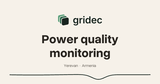
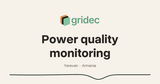
Логотип v2 владельца (gridec_vector_v2.zip): знак из трёх плоскостей медь / тёмно-зелёная / бледно-зелёная, слово «gridec» зелёным #5FA27E (2026-11-17, владелец: «поставь этот логотип»)
- brand/: gridec-logo-light(-s).svg ← logo-light, gridec-logo-dark.svg ← logo-dark (на тёмном у средней плоскости тонкий светлый контур — так в файле владельца), gridec-mark-light/dark.svg ← symbol-light/dark. Новые файлы для почтовой подписи: gridec-logo-email-light/dark.png (684 px); прежние PNG подписи не тронуты — у них другие пропорции, на них ссылаются черновики подписи.
- Шапка 37 px и подвал 44 px — прежней высоты: ширина знака вышла та же (125 против 122 px). Рамка новых SVG без полей, поэтому сдвиг влево -8→-6 и -10→-7, край знака на прежнем месте. width/height у <img> 684×204.
- favicon.svg: светлый знак на бумажной плитке (rx 12), фавиконки пересобраны icons_mark.py.
- og: logo-mark.png отрисован из нового SVG (300 px на бумаге), карточки пересобраны make_cards.py.
Проверено: шапка светлая/тёмная, подвал, телефон 320–530 (HY зазор знак→«Բաժիններ» 9 px на 375, 24 на 390; переполнения нет).

Changed region(s): [[0.3438, 0.1667, 0.6562, 0.3095]]

diff --git a/powertech-v2-build/shell.html b/powertech-v2-build/shell.html
@@ -205,7 +205,7 @@ header a,header button,header nav,header .navr{pointer-events:auto;}
    плоскостями шире (3.4 вместо 1.5) и задняя плоскость на шаг темнее, иначе при
    32px зазоры пропадают и знак сливается в пятно. На тёмном — dark-версия.
    Сдвиг −7px: оптическое выравнивание по средней плоскости (задняя висит в поле). */
-.brand .wm{display:block;flex:0 0 auto;height:37px;width:auto;margin:0 0 0 -8px;}   /* 32 → 37: владелец «на 15 %» (2026-09-13); сдвиг оптики −7 → −8 пропорционально */
+.brand .wm{display:block;flex:0 0 auto;height:37px;width:auto;margin:0 0 0 -6px;}/* 2026-11-17 логотип v2 владельца: рамка без полей, край знака там же, где был */   /* 32 → 37: владелец «на 15 %» (2026-09-13); сдвиг оптики −7 → −8 пропорционально */
 .brand .lg-d{display:none;}
 header.on-dark .brand .lg-l{display:none;}
 header.on-dark .brand .lg-d{display:block;}
@@ -1580,7 +1580,7 @@ footer .fgrid{display:grid;grid-template-columns:minmax(220px,1fr) minmax(0,1.15
 /* Владелец (2026-09-14): знак и имя юрлица под ним спорили — два имени одного
    веса подряд. Имя юрлица ушло в строку реквизитов к номеру: знак называет
    компанию один раз, юрлицо читают вместе с номером. */
-footer .fbrand .flg{display:block;height:44px;width:auto;margin:0 0 22px -10px;}
+footer .fbrand .flg{display:block;height:44px;width:auto;margin:0 0 22px -7px;}
 /* Учётный номер компании. Он ярче описания над ним, потому что это
    проверяемый факт, а не подпись: по этому номеру компанию находят в
    государственном реестре — ради чего он в футере и стоит. Обозначение
@@ -2360,7 +2360,7 @@ html[data-nav="5"] #hdr .btn{white-space:nowrap;}
 <div id="wipe"><canvas aria-hidden="true"></canvas></div>
 <div class="rake" aria-hidden="true"></div>
 <header id="hdr" data-tone="paper"><div class="hin">
-  <a class="brand" href="%%BRAND_HREF%%" aria-label="Gridec"><img class="wm lg-l" src="./brand/gridec-logo-light-s.svg" alt="Gridec" width="325" height="92" decoding="async"><img class="wm lg-d" src="./brand/gridec-logo-dark.svg" alt="" width="325" height="92" decoding="async" aria-hidden="true"></a>
+  <a class="brand" href="%%BRAND_HREF%%" aria-label="Gridec"><img class="wm lg-l" src="./brand/gridec-logo-light-s.svg" alt="Gridec" width="684" height="204" decoding="async"><img class="wm lg-d" src="./brand/gridec-logo-dark.svg" alt="" width="684" height="204" decoding="async" aria-hidden="true"></a>
   <!-- %%HOME%% пуст на главной и равен её адресу на остальных страницах: оттуда
        ссылки на разделы ведут на главную, а не в пустоту (2026-11-11). -->
   <nav><a class="lk" href="%%HOME%%#applications">%%NAV_INDUSTRIES%%</a><a class="lk" href="%%HOME%%#services">%%NAV_SERVICES%%</a><a class="lk" href="%%HOME%%#company">%%NAV_COMPANY%%</a><a class="lk" href="%%PARTNERS_HREF%%"%%PARTNERS_CUR%%>%%NAV_PARTNERS%%</a></nav>
@@ -2563,7 +2563,7 @@ html[data-nav="5"] #hdr .btn{white-space:nowrap;}
 <footer>
   <div class="wrap fgrid">
     <div class="fbrand rv">
-      <img class="flg" src="./brand/gridec-logo-dark.svg" alt="Gridec" width="325" height="92" loading="lazy" decoding="async">
+      <img class="flg" src="./brand/gridec-logo-dark.svg" alt="Gridec" width="684" height="204" loading="lazy" decoding="async">
       <p>%%HERO_EYEBROW%%</p>
       <p class="freg">%%CO_LEGAL%%<span class="fsep">·</span>%%CO_TIN_LB%% <b>%%CO_TIN%%</b></p>
     </div>

diff --git a/site/hy/partners/index.html b/site/hy/partners/index.html
@@ -106,7 +106,7 @@ header a,header button,header nav,header .navr{pointer-events:auto;}
   width:100%;padding:0 clamp(14px,2.1vw,30px);}
 .brand{display:flex;align-items:center;gap:10px;
   --acc:var(--c-brand);flex:0 0 auto;transition:color .5s var(--e);}
-.brand .wm{display:block;flex:0 0 auto;height:37px;width:auto;margin:0 0 0 -8px;}   
+.brand .wm{display:block;flex:0 0 auto;height:37px;width:auto;margin:0 0 0 -6px;}   
 .brand .lg-d{display:none;}
 header.on-dark .brand .lg-l{display:none;}
 header.on-dark .brand .lg-d{display:block;}
@@ -812,7 +812,7 @@ footer,.footrev{--foot-h:530px;}
   box-shadow:inset 0 1px 0 var(--line-d);}
 footer .fgrid{display:grid;grid-template-columns:minmax(220px,1fr) minmax(0,1.15fr) minmax(0,.85fr);
   gap:clamp(28px,4vw,var(--s8));align-items:start;}
-footer .fbrand .flg{display:block;height:44px;width:auto;margin:0 0 22px -10px;}
+footer .fbrand .flg{display:block;height:44px;width:auto;margin:0 0 22px -7px;}
 footer .fbrand .freg{margin-top:14px;text-transform:none;letter-spacing:.04em;white-space:nowrap;
   max-width:none;color:var(--c-paper-a72);}
 footer .fbrand .freg .fsep{opacity:.5;margin:0 10px;}
@@ -1292,7 +1292,7 @@ html[data-nav="5"] #hdr .btn{white-space:nowrap;}
 <div id="wipe"><canvas aria-hidden="true"></canvas></div>
 <div class="rake" aria-hidden="true"></div>
 <header id="hdr" data-tone="paper"><div class="hin">
-  <a class="brand" href="/hy/" aria-label="Gridec"><img class="wm lg-l" src="/brand/gridec-logo-light-s.svg" alt="Gridec" width="325" height="92" decoding="async"><img class="wm lg-d" src="/brand/gridec-logo-dark.svg" alt="" width="325" height="92" decoding="async" aria-hidden="true"></a>
+  <a class="brand" href="/hy/" aria-label="Gridec"><img class="wm lg-l" src="/brand/gridec-logo-light-s.svg" alt="Gridec" width="684" height="204" decoding="async"><img class="wm lg-d" src="/brand/gridec-logo-dark.svg" alt="" width="684" height="204" decoding="async" aria-hidden="true"></a>
   
   <nav><a class="lk" href="/hy/#applications">Ոլորտներ</a><a class="lk" href="/hy/#services">Ծառայություններ</a><a class="lk" href="/hy/#company">Ընկերություն</a><a class="lk" href="/hy/partners/" aria-current="page">Գործընկերների համար</a></nav>
   <div class="navr">
@@ -1360,7 +1360,7 @@ html[data-nav="5"] #hdr .btn{white-space:nowrap;}
 <footer>
   <div class="wrap fgrid">
     <div class="fbrand rv">
-      <img class="flg" src="/brand/gridec-logo-dark.svg" alt="Gridec" width="325" height="92" loading="lazy" decoding="async">
+      <img class="flg" src="/brand/gridec-logo-dark.svg" alt="Gridec" width="684" height="204" loading="lazy" decoding="async">
       <p>Էլեկտրաէներգիայի որակի մոնիթորինգ</p>
       <p class="freg">Գրիդեկ ՍՊԸ<span class="fsep">·</span>ՀՎՀՀ <b>08331059</b></p>
     </div>

diff --git a/site/hy/index.html b/site/hy/index.html
@@ -106,7 +106,7 @@ header a,header button,header nav,header .navr{pointer-events:auto;}
   width:100%;padding:0 clamp(14px,2.1vw,30px);}
 .brand{display:flex;align-items:center;gap:10px;
   --acc:var(--c-brand);flex:0 0 auto;transition:color .5s var(--e);}
-.brand .wm{display:block;flex:0 0 auto;height:37px;width:auto;margin:0 0 0 -8px;}   
+.brand .wm{display:block;flex:0 0 auto;height:37px;width:auto;margin:0 0 0 -6px;}   
 .brand .lg-d{display:none;}
 header.on-dark .brand .lg-l{display:none;}
 header.on-dark .brand .lg-d{display:block;}
@@ -812,7 +812,7 @@ footer,.footrev{--foot-h:530px;}
   box-shadow:inset 0 1px 0 var(--line-d);}
 footer .fgrid{display:grid;grid-template-columns:minmax(220px,1fr) minmax(0,1.15fr) minmax(0,.85fr);
   gap:clamp(28px,4vw,var(--s8));align-items:start;}
-footer .fbrand .flg{display:block;height:44px;width:auto;margin:0 0 22px -10px;}
+footer .fbrand .flg{display:block;height:44px;width:auto;margin:0 0 22px -7px;}
 footer .fbrand .freg{margin-top:14px;text-transform:none;letter-spacing:.04em;white-space:nowrap;
   max-width:none;color:var(--c-paper-a72);}
 footer .fbrand .freg .fsep{opacity:.5;margin:0 10px;}
@@ -1292,7 +1292,7 @@ html[data-nav="5"] #hdr .btn{white-space:nowrap;}
 <div id="wipe"><canvas aria-hidden="true"></canvas></div>
 <div class="rake" aria-hidden="true"></div>
 <header id="hdr" data-tone="paper"><div class="hin">
-  <a class="brand" href="#top" aria-label="Gridec"><img class="wm lg-l" src="/brand/gridec-logo-light-s.svg" alt="Gridec" width="325" height="92" decoding="async"><img class="wm lg-d" src="/brand/gridec-logo-dark.svg" alt="" width="325" height="92" decoding="async" aria-hidden="true"></a>
+  <a class="brand" href="#top" aria-label="Gridec"><img class="wm lg-l" src="/brand/gridec-logo-light-s.svg" alt="Gridec" width="684" height="204" decoding="async"><img class="wm lg-d" src="/brand/gridec-logo-dark.svg" alt="" width="684" height="204" decoding="async" aria-hidden="true"></a>
   
   <nav><a class="lk" href="#applications">Ոլորտներ</a><a class="lk" href="#services">Ծառայություններ</a><a class="lk" href="#company">Ընկերություն</a><a class="lk" href="/hy/partners/">Գործընկերների համար</a></nav>
   <div class="navr">
@@ -1455,7 +1455,7 @@ html[data-nav="5"] #hdr .btn{white-space:nowrap;}
 <footer>
   <div class="wrap fgrid">
     <div class="fbrand rv">
-      <img class="flg" src="/brand/gridec-logo-dark.svg" alt="Gridec" width="325" height="92" loading="lazy" decoding="async">
+      <img class="flg" src="/brand/gridec-logo-dark.svg" alt="Gridec" width="684" height="204" loading="lazy" decoding="async">
       <p>Էլեկտրաէներգիայի որակի մոնիթորինգ</p>
       <p class="freg">Գրիդեկ ՍՊԸ<span class="fsep">·</span>ՀՎՀՀ <b>08331059</b></p>
     </div>

diff --git a/site/partners/index.html b/site/partners/index.html
@@ -102,7 +102,7 @@ header a,header button,header nav,header .navr{pointer-events:auto;}
   width:100%;padding:0 clamp(14px,2.1vw,30px);}
 .brand{display:flex;align-items:center;gap:10px;
   --acc:var(--c-brand);flex:0 0 auto;transition:color .5s var(--e);}
-.brand .wm{display:block;flex:0 0 auto;height:37px;width:auto;margin:0 0 0 -8px;}   
+.brand .wm{display:block;flex:0 0 auto;height:37px;width:auto;margin:0 0 0 -6px;}   
 .brand .lg-d{display:none;}
 header.on-dark .brand .lg-l{display:none;}
 header.on-dark .brand .lg-d{display:block;}
@@ -808,7 +808,7 @@ footer,.footrev{--foot-h:530px;}
   box-shadow:inset 0 1px 0 var(--line-d);}
 footer .fgrid{display:grid;grid-template-columns:minmax(220px,1fr) minmax(0,1.15fr) minmax(0,.85fr);
   gap:clamp(28px,4vw,var(--s8));align-items:start;}
-footer .fbrand .flg{display:block;height:44px;width:auto;margin:0 0 22px -10px;}
+footer .fbrand .flg{display:block;height:44px;width:auto;margin:0 0 22px -7px;}
 footer .fbrand .freg{margin-top:14px;text-transform:none;letter-spacing:.04em;white-space:nowrap;
   max-width:none;color:var(--c-paper-a72);}
 footer .fbrand .freg .fsep{opacity:.5;margin:0 10px;}
@@ -1292,7 +1292,7 @@ html[data-nav="5"] #hdr .btn{white-space:nowrap;}
 <div id="wipe"><canvas aria-hidden="true"></canvas></div>
 <div class="rake" aria-hidden="true"></div>
 <header id="hdr" data-tone="paper"><div class="hin">
-  <a class="brand" href="/" aria-label="Gridec"><img class="wm lg-l" src="/brand/gridec-logo-light-s.svg" alt="Gridec" width="325" height="92" decoding="async"><img class="wm lg-d" src="/brand/gridec-logo-dark.svg" alt="" width="325" height="92" decoding="async" aria-hidden="true"></a>
+  <a class="brand" href="/" aria-label="Gridec"><img class="wm lg-l" src="/brand/gridec-logo-light-s.svg" alt="Gridec" width="684" height="204" decoding="async"><img class="wm lg-d" src="/brand/gridec-logo-dark.svg" alt="" width="684" height="204" decoding="async" aria-hidden="true"></a>
   
   <nav><a class="lk" href="/#applications">Industries</a><a class="lk" href="/#services">Services</a><a class="lk" href="/#company">Company</a><a class="lk" href="/partners/" aria-current="page">For Partners</a></nav>
   <div class="navr">
@@ -1360,7 +1360,7 @@ html[data-nav="5"] #hdr .btn{white-space:nowrap;}
 <footer>
   <div class="wrap fgrid">
     <div class="fbrand rv">
-      <img class="flg" src="/brand/gridec-logo-dark.svg" alt="Gridec" width="325" height="92" loading="lazy" decoding="async">
+      <img class="flg" src="/brand/gridec-logo-dark.svg" alt="Gridec" width="684" height="204" loading="lazy" decoding="async">
       <p>POWER QUALITY MONITORING</p>
       <p class="freg">Gridec LLC<span class="fsep">·</span>TIN <b>08331059</b></p>
     </div>

diff --git a/site/index.html b/site/index.html
@@ -102,7 +102,7 @@ header a,header button,header nav,header .navr{pointer-events:auto;}
   width:100%;padding:0 clamp(14px,2.1vw,30px);}
 .brand{display:flex;align-items:center;gap:10px;
   --acc:var(--c-brand);flex:0 0 auto;transition:color .5s var(--e);}
-.brand .wm{display:block;flex:0 0 auto;height:37px;width:auto;margin:0 0 0 -8px;}   
+.brand .wm{display:block;flex:0 0 auto;height:37px;width:auto;margin:0 0 0 -6px;}   
 .brand .lg-d{display:none;}
 header.on-dark .brand .lg-l{display:none;}
 header.on-dark .brand .lg-d{display:block;}
@@ -808,7 +808,7 @@ footer,.footrev{--foot-h:530px;}
   box-shadow:inset 0 1px 0 var(--line-d);}
 footer .fgrid{display:grid;grid-template-columns:minmax(220px,1fr) minmax(0,1.15fr) minmax(0,.85fr);
   gap:clamp(28px,4vw,var(--s8));align-items:start;}
-footer .fbrand .flg{display:block;height:44px;width:auto;margin:0 0 22px -10px;}
+footer .fbrand .flg{display:block;height:44px;width:auto;margin:0 0 22px -7px;}
 footer .fbrand .freg{margin-top:14px;text-transform:none;letter-spacing:.04em;white-space:nowrap;
   max-width:none;color:var(--c-paper-a72);}
 footer .fbrand .freg .fsep{opacity:.5;margin:0 10px;}
@@ -1292,7 +1292,7 @@ html[data-nav="5"] #hdr .btn{white-space:nowrap;}
 <div id="wipe"><canvas aria-hidden="true"></canvas></div>
 <div class="rake" aria-hidden="true"></div>
 <header id="hdr" data-tone="paper"><div class="hin">
-  <a class="brand" href="#top" aria-label="Gridec"><img class="wm lg-l" src="/brand/gridec-logo-light-s.svg" alt="Gridec" width="325" height="92" decoding="async"><img class="wm lg-d" src="/brand/gridec-logo-dark.svg" alt="" width="325" height="92" decoding="async" aria-hidden="true"></a>
+  <a class="brand" href="#top" aria-label="Gridec"><img class="wm lg-l" src="/brand/gridec-logo-light-s.svg" alt="Gridec" width="684" height="204" decoding="async"><img class="wm lg-d" src="/brand/gridec-logo-dark.svg" alt="" width="684" height="204" decoding="async" aria-hidden="true"></a>
   
   <nav><a class="lk" href="#applications">Industries</a><a class="lk" href="#services">Services</a><a class="lk" href="#company">Company</a><a class="lk" href="/partners/">For Partners</a></nav>
   <div class="navr">
@@ -1455,7 +1455,7 @@ html[data-nav="5"] #hdr .btn{white-space:nowrap;}
 <footer>
   <div class="wrap fgrid">
     <div class="fbrand rv">
-      <img class="flg" src="/brand/gridec-logo-dark.svg" alt="Gridec" width="325" height="92" loading="lazy" decoding="async">
+      <img class="flg" src="/brand/gridec-logo-dark.svg" alt="Gridec" width="684" height="204" loading="lazy" decoding="async">
       <p>POWER QUALITY MONITORING</p>
       <p class="freg">Gridec LLC<span class="fsep">·</span>TIN <b>08331059</b></p>
     </div>
